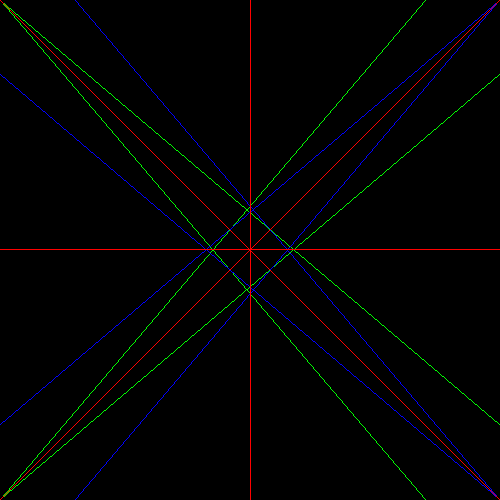
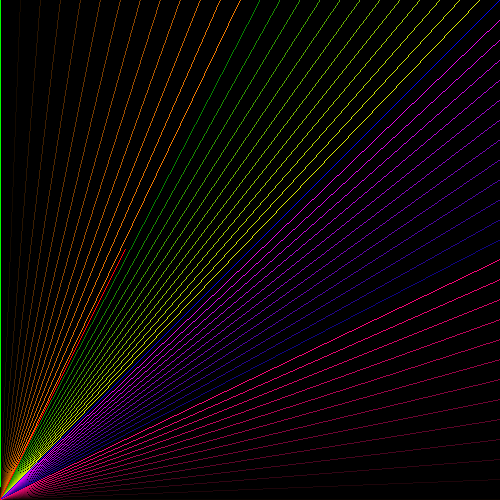
some picture

diff --git a/main.c b/main.c
@@ -18,6 +18,31 @@ int main() {
 
   clear_screen(s);
 
+  int i, j;
+  j=YRES;
+  for (i=0; i<=XRES; i+=20){
+    draw_line(0, 0, i, j, s, c);
+    c.red = (c.red+20)%255;
+    c.green = (c.green+10)%255;
+  }
+  i=XRES;
+  for (j=0; j<=YRES; j+=20){
+    draw_line(0, 0, i, j, s, c);
+    c.red = (c.red+20)%255;
+    c.blue = (c.blue+10)%255;
+  }
+
+
+  c.red = MAX_COLOR;
+  c.green = 0;
+  c.blue = 0;
+
+  i = XRES/4;
+  j = YRES/2;
+  draw_line(0, 0, i, j, s, c);
+  
+
+
 /*   DW TEST CODE BELOW    */
 /*
   //octant 1

diff --git a/draw.c b/draw.c
@@ -41,7 +41,6 @@ void draw_line(int x0, int y0, int x1, int y1, screen s, color c) {
   }
 
   m = ((float)(y1-y0))/((float)(x1-x0));
-  printf("m: %lf\n", m);
 
   //OCTANT I, V
   if ((m <= 1 && m >= 0)){
